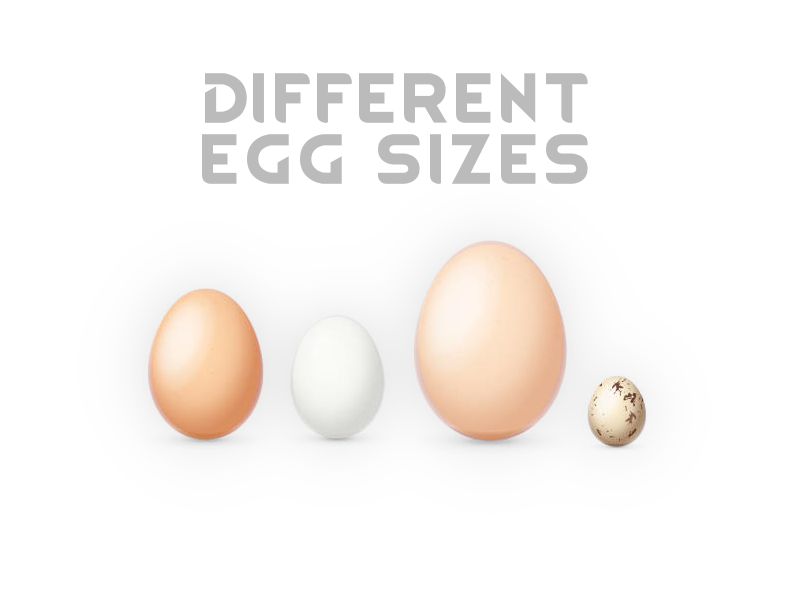
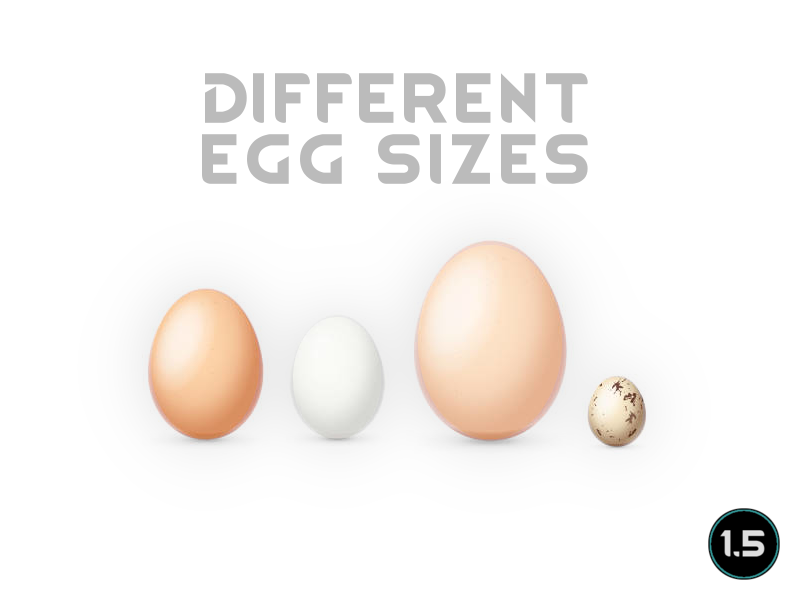
Mod updated for 1.5 and passed autotests

Changed region(s): [[0.875, 0.84, 1.0, 0.99]]

diff --git a/Source/DifferentEggSizes/Main.cs b/Source/DifferentEggSizes/Main.cs
@@ -54,8 +54,12 @@ public static class Main
             return;
         }
 
-        Log.Message(
-            $"[DifferentEggSizes]: Starting egg-updating based on Chicken-eggs. Nutrition: {baseNutrition}, Mass: {baseMass}, MaxHitPoints: {baseMaxHitPoints}");
+        if (DifferentEggSizesMod.instance.Settings.VerboseLogging)
+        {
+            Log.Message(
+                $"[DifferentEggSizes]: Starting egg-updating based on Chicken-eggs. Nutrition: {baseNutrition}, Mass: {baseMass}, MaxHitPoints: {baseMaxHitPoints}");
+        }
+
         var eggsAndLayers = new Dictionary<ThingDef, ThingDef>();
 
         foreach (var eggLayer in DefDatabase<ThingDef>.AllDefsListForReading.Where(def =>
@@ -79,8 +83,12 @@ public static class Main
             var layerBodySize = eggInfo.Value.race?.baseBodySize;
             if (layerBodySize == null)
             {
-                Log.Message(
-                    $"[DifferentEggSizes]: {eggInfo.Value.defName} does not have a defined body-size, ignoring its eggs");
+                if (DifferentEggSizesMod.instance.Settings.VerboseLogging)
+                {
+                    Log.Message(
+                        $"[DifferentEggSizes]: {eggInfo.Value.defName} does not have a defined body-size, ignoring its eggs");
+                }
+
                 continue;
             }
 

diff --git a/Source/DifferentEggSizes/DifferentEggSizesMod.cs b/Source/DifferentEggSizes/DifferentEggSizesMod.cs
@@ -27,8 +27,7 @@ internal class DifferentEggSizesMod : Mod
     {
         instance = this;
         currentVersion =
-            VersionFromManifest.GetVersionFromModMetaData(
-                ModLister.GetActiveModWithIdentifier("Mlie.DifferentEggSizes"));
+            VersionFromManifest.GetVersionFromModMetaData(content.ModMetaData);
     }
 
     /// <summary>

diff --git a/README.md b/README.md
@@ -1,6 +1,6 @@
 # DifferentEggSizes
 
-![Image](https://i.imgur.com/buuPQel.png)
+![Image](https://i.imgur.com/iCj5o7O.png)
 
 This mod is a successor to Simmins mod https://steamcommunity.com/sharedfiles/filedetails/?id=2266032035]Egg Size Matters and was requested by Kayedon.
 
@@ -13,23 +13,26 @@ There are also mod-settings for setting max/min possible values generated by the
 Mod-order should not matter as all changes are done after all definitions have been loaded.
 	
 
-![Image](https://i.imgur.com/O0IIlYj.png)
+![Image](https://i.imgur.com/Ds0rBAD.png)
 
 Since modding is just a hobby for me I expect no donations to keep modding. If you still want to show your support you can gift me anything from my https://store.steampowered.com/wishlist/id/Mlie]Wishlist or buy me a cup of tea.
 
-https://ko-fi.com/G2G55DDYD]![Image](https://i.imgur.com/Utx6OIH.png)
+https://ko-fi.com/G2G55DDYD]![Image](https://i.imgur.com/VWG0yff.png)
 
 
-![Image](https://i.imgur.com/PwoNOj4.png)
+![Image](https://i.imgur.com/5xwDG6H.png)
 
 
 
 -  See if the the error persists if you just have this mod and its requirements active.
 -  If not, try adding your other mods until it happens again.
--  Post your error-log using https://steamcommunity.com/workshop/filedetails/?id=818773962]HugsLib and command Ctrl+F12
+-  Post your error-log using https://steamcommunity.com/workshop/filedetails/?id=818773962]HugsLib or the standalone https://steamcommunity.com/sharedfiles/filedetails/?id=2873415404]Uploader and command Ctrl+F12
 -  For best support, please use the Discord-channel for error-reporting.
 -  Do not report errors by making a discussion-thread, I get no notification of that.
 -  If you have the solution for a problem, please post it to the GitHub repository.
+-  Use https://github.com/RimSort/RimSort/releases/latest]RimSort to sort your mods
 
 
+
+https://steamcommunity.com/sharedfiles/filedetails/changelog/2625721813]![Image](https://img.shields.io/github/v/release/emipa606/DifferentEggSizes?label=latest%20version&style=plastic&labelColor=0070cd&color=white)
 
